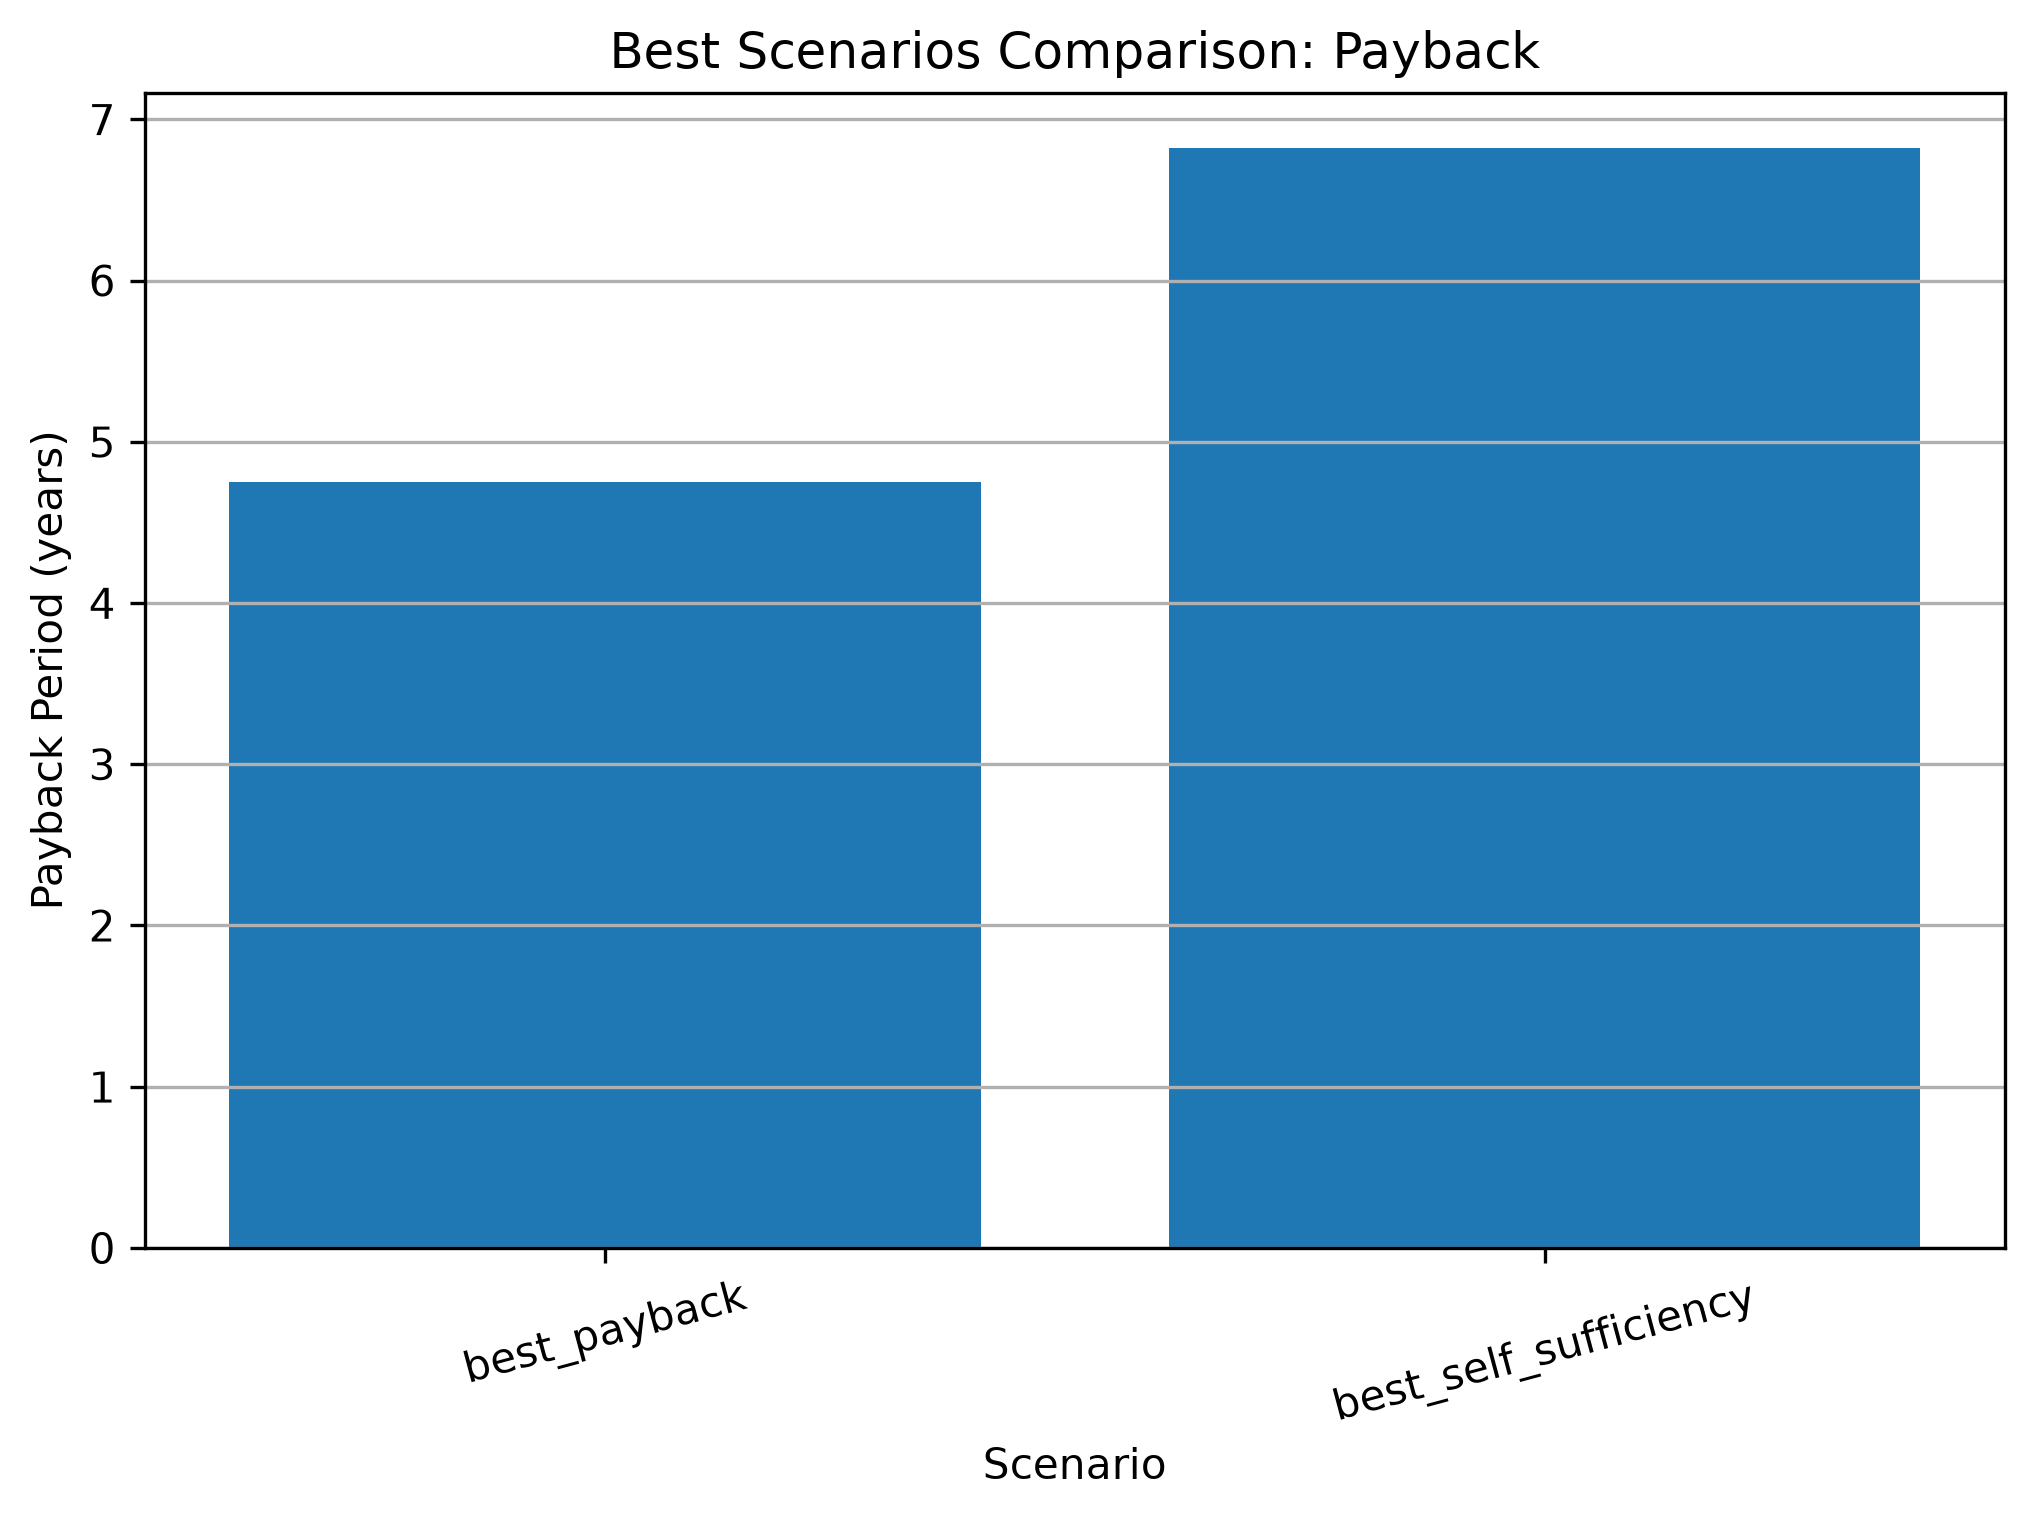
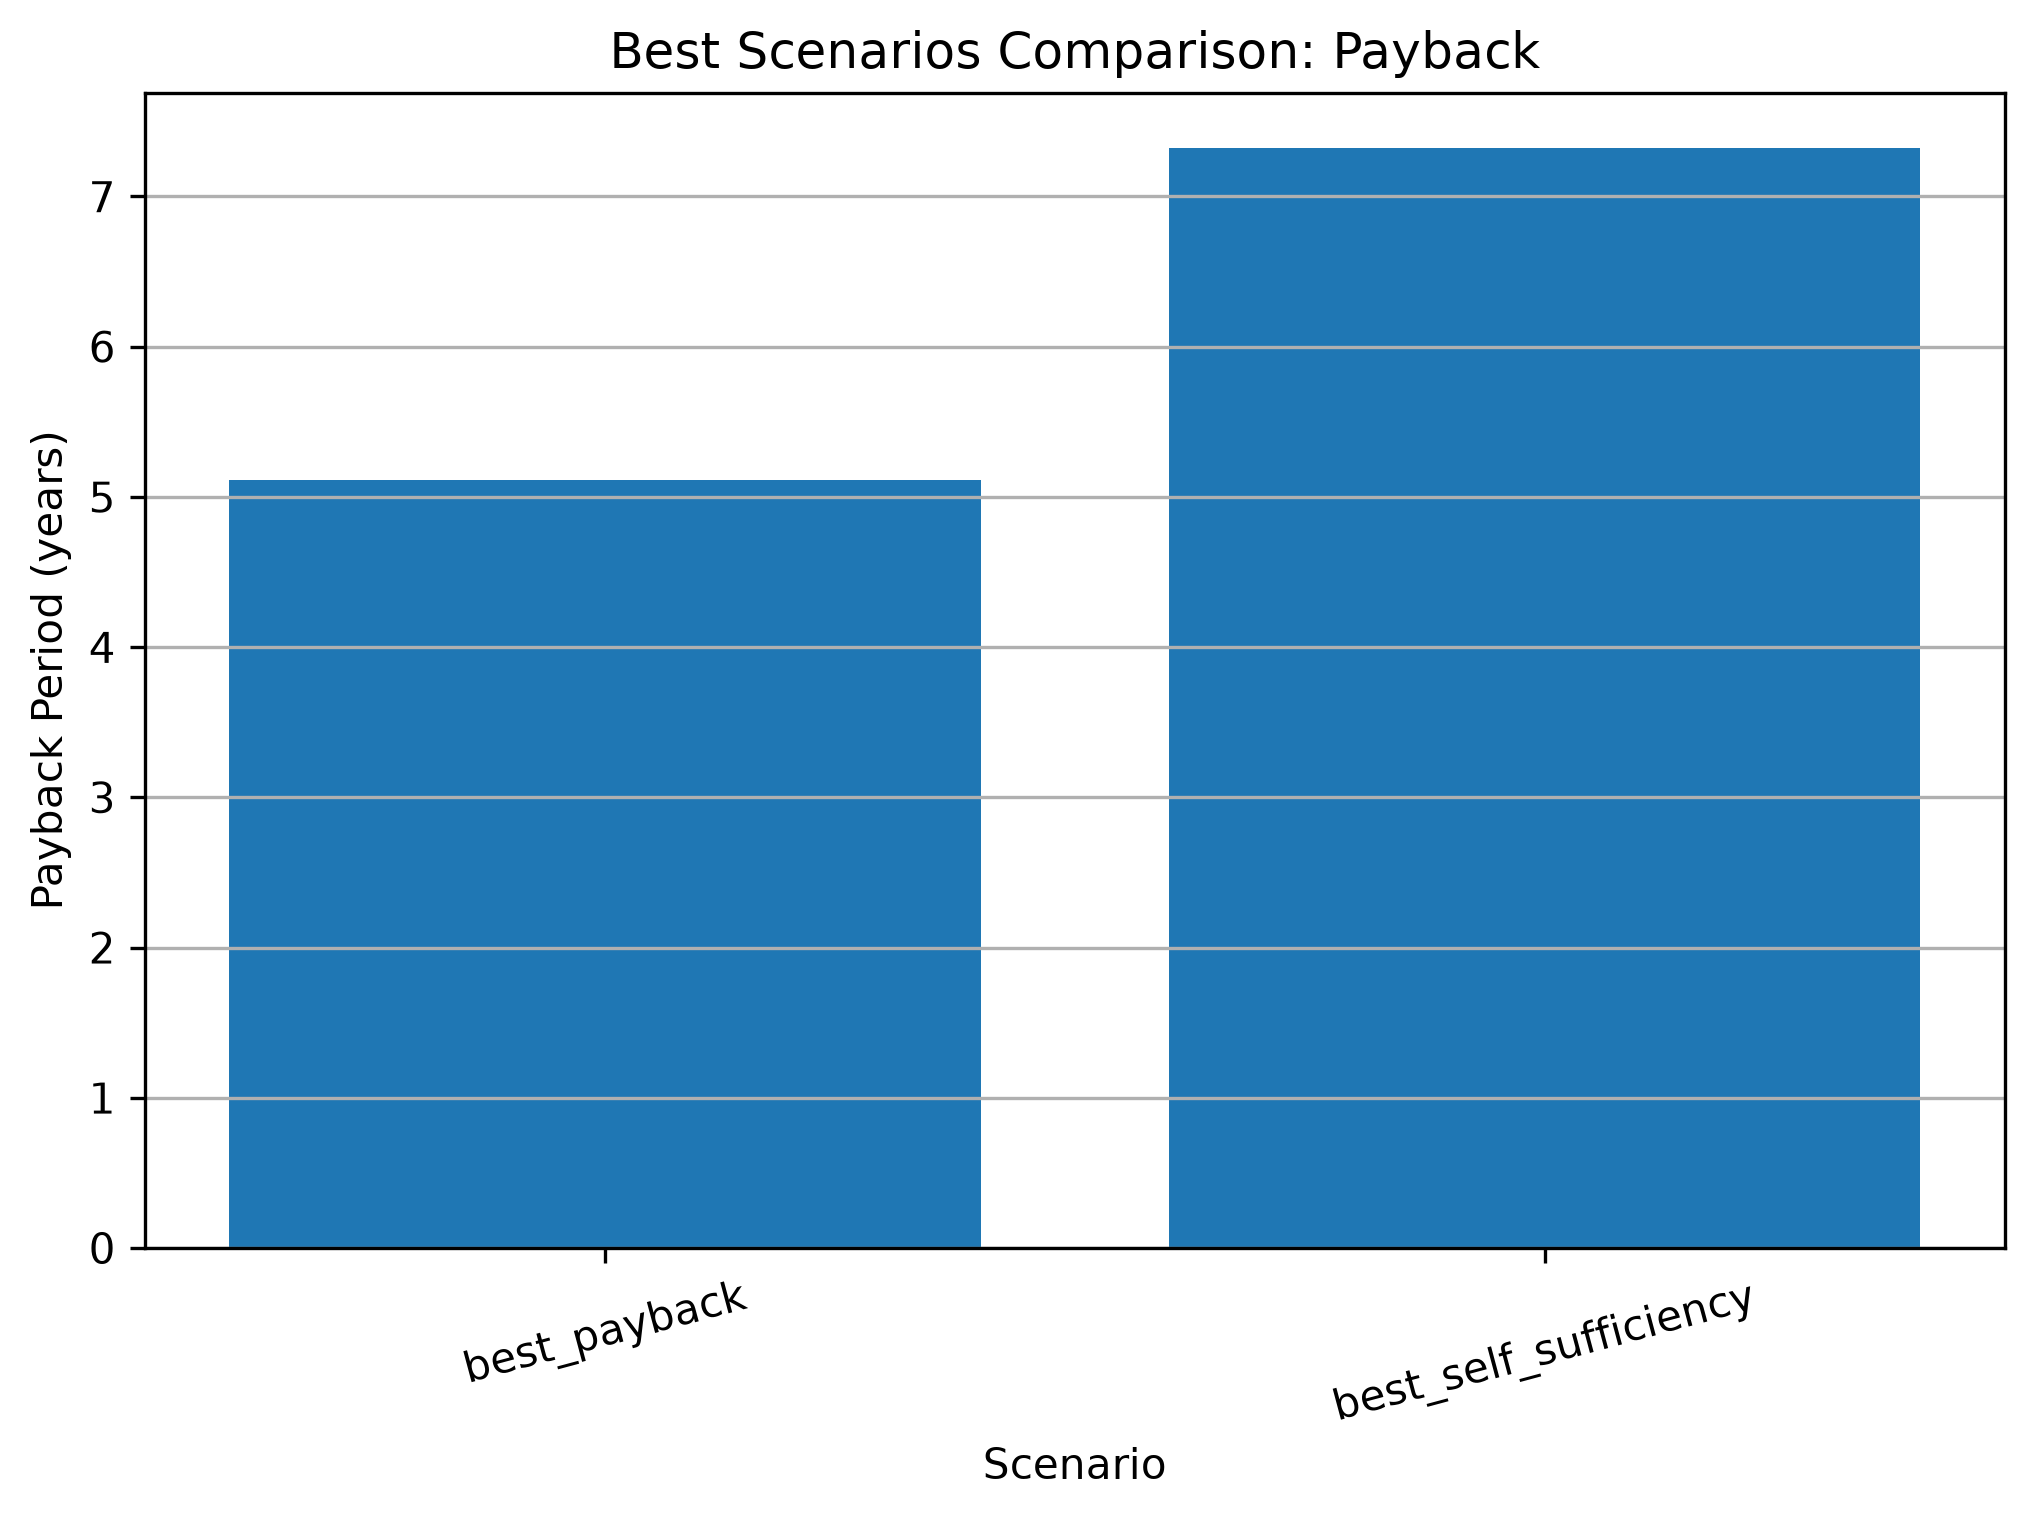
Use Spanish tariff in optimization

diff --git a/src/optimization.py b/src/optimization.py
@@ -10,79 +10,109 @@ from economics import (
 )
 
 from solar_data_loader import get_pvgis_generation_for_timestamps
+from tariff import calculate_net_electricity_cost_with_tariff
+from battery import simulate_battery
 
 def run_economic_grid_search(
-    consumption_kwh: list[float],
-    timestamps,
+    consumption_df: pd.DataFrame,
     solar_peak_powers_kw: list[float],
     battery_capacities_kwh: list[float],
     battery_efficiency: float,
-    max_charge_power_kw: float | None,
-    max_discharge_power_kw: float | None,
+    max_charge_power_kw: float,
+    max_discharge_power_kw: float,
     initial_battery_state_kwh: float,
-    electricity_price_eur_per_kwh: float,
-    surplus_compensation_eur_per_kwh: float,
     fixed_installation_cost: float,
     solar_cost_per_kw: float,
     battery_cost_per_kwh: float,
+    peak_price: float,
+    flat_price: float,
+    off_peak_price: float,
+    surplus_compensation_price: float,
+    contracted_power_kw: float,
+    power_price_eur_per_kw_year: float,
     simulation_days: int,
-    days_per_year: int = 365,
     pvgis_df: pd.DataFrame | None = None
 ) -> pd.DataFrame:
-
-    total_consumption = sum(consumption_kwh)
-
-    baseline_period_cost = calculate_grid_cost(
-        total_consumption,
-        electricity_price_eur_per_kwh
-    )
-
-    baseline_annual_cost = baseline_period_cost * (
-        days_per_year / simulation_days
-    )
-
     results = []
 
-    for peak_power_kw in solar_peak_powers_kw:
+    base_cost_df = consumption_df[["datetime", "consumption_kwh"]].copy()
+    base_cost_df["grid_import_kwh"] = base_cost_df["consumption_kwh"]
+    base_cost_df["solar_surplus_kwh"] = 0.0
+
+    base_net_cost = calculate_net_electricity_cost_with_tariff(
+        base_cost_df,
+        grid_import_column="grid_import_kwh",
+        surplus_column="solar_surplus_kwh",
+        peak_price=peak_price,
+        flat_price=flat_price,
+        off_peak_price=off_peak_price,
+        surplus_compensation_price=surplus_compensation_price,
+        contracted_power_kw=contracted_power_kw,
+        power_price_eur_per_kw_year=power_price_eur_per_kw_year,
+        simulation_days=simulation_days
+    )
+
+    for solar_peak_power_kw in solar_peak_powers_kw:
         if pvgis_df is None:
             solar_generation_kwh = generate_solar_profile_for_timestamps(
-                timestamps,
-                peak_power_kw
+                consumption_df["datetime"],
+                solar_peak_power_kw
             )
         else:
-            solar_generation_kwh = get_pvgis_generation_for_timestamps(pvgis_df, timestamps, peak_power_kw)
+            solar_generation_kwh = get_pvgis_generation_for_timestamps(
+                pvgis_df,
+                consumption_df["datetime"],
+                solar_peak_power_kw
+            )
 
         for battery_capacity_kwh in battery_capacities_kwh:
-            summary = compare_battery_scenario(
-                consumption_kwh,
-                solar_generation_kwh,
-                battery_capacity_kwh,
+            simulation_results = simulate_battery(
+                consumption_kwh=consumption_df["consumption_kwh"].tolist(),
+                solar_generation_kwh=solar_generation_kwh,
+                battery_capacity_kwh=battery_capacity_kwh,
                 battery_efficiency=battery_efficiency,
                 max_charge_power_kw=max_charge_power_kw,
                 max_discharge_power_kw=max_discharge_power_kw,
                 initial_battery_state_kwh=initial_battery_state_kwh
             )
 
-            scenario_period_cost = calculate_net_cost(
-                summary["grid_import_with_battery_kwh"],
-                summary["solar_surplus_with_battery_kwh"],
-                electricity_price_eur_per_kwh,
-                surplus_compensation_eur_per_kwh
+            simulation_df = pd.DataFrame(simulation_results)
+
+            simulation_df["datetime"] = consumption_df["datetime"].reset_index(
+                drop=True
             )
 
-            scenario_annual_cost = scenario_period_cost * (
-                days_per_year / simulation_days
+            simulation_df["consumption_kwh"] = consumption_df[
+                "consumption_kwh"
+            ].reset_index(drop=True)
+
+            simulation_df["solar_generation_kwh"] = solar_generation_kwh
+
+            scenario_net_cost = calculate_net_electricity_cost_with_tariff(
+                simulation_df,
+                grid_import_column="grid_import_kwh",
+                surplus_column="solar_surplus_kwh",
+                peak_price=peak_price,
+                flat_price=flat_price,
+                off_peak_price=off_peak_price,
+                surplus_compensation_price=surplus_compensation_price,
+                contracted_power_kw=contracted_power_kw,
+                power_price_eur_per_kw_year=power_price_eur_per_kw_year,
+                simulation_days=simulation_days
             )
 
-            period_savings = baseline_period_cost - scenario_period_cost
-            annual_savings = baseline_annual_cost - scenario_annual_cost
+            period_savings = base_net_cost - scenario_net_cost
+
+            annual_savings = (
+                period_savings * 365 / simulation_days
+            )
 
             investment_cost = calculate_total_installation_cost(
-                peak_power_kw,
-                battery_capacity_kwh,
-                solar_cost_per_kw,
-                battery_cost_per_kwh,
-                fixed_installation_cost=fixed_installation_cost
+                solar_peak_power_kw=solar_peak_power_kw,
+                battery_capacity_kwh=battery_capacity_kwh,
+                fixed_installation_cost=fixed_installation_cost,
+                solar_cost_per_kw=solar_cost_per_kw,
+                battery_cost_per_kwh=battery_cost_per_kwh
             )
 
             payback_years = calculate_simple_payback_years(
@@ -90,25 +120,38 @@ def run_economic_grid_search(
                 annual_savings
             )
 
+            total_consumption_kwh = simulation_df[
+                "consumption_kwh"
+            ].sum()
+
+            total_grid_import_kwh = simulation_df[
+                "grid_import_kwh"
+            ].sum()
+
+            total_solar_surplus_kwh = simulation_df[
+                "solar_surplus_kwh"
+            ].sum()
+
+            self_sufficiency = (
+                1 - total_grid_import_kwh / total_consumption_kwh
+            ) 
+
             results.append({
-                "solar_peak_power_kw": peak_power_kw,
+                "solar_peak_power_kw": solar_peak_power_kw,
                 "battery_capacity_kwh": battery_capacity_kwh,
                 "investment_cost_eur": investment_cost,
-                "period_cost_eur": scenario_period_cost,
-                "annual_cost_eur": scenario_annual_cost,
-                "period_savings_eur": period_savings,
+                "base_net_cost_eur": base_net_cost,
+                "scenario_net_cost_eur": scenario_net_cost,
                 "annual_savings_eur": annual_savings,
                 "payback_years": payback_years,
-                "grid_import_kwh": summary["grid_import_with_battery_kwh"],
-                "solar_surplus_kwh": summary["solar_surplus_with_battery_kwh"],
-                "potential_surplus_compensation_eur": (
-                    summary["solar_surplus_with_battery_kwh"]
-                    * surplus_compensation_eur_per_kwh
-                ),
-                "self_sufficiency": summary["self_sufficiency_with_battery"]
+                "self_sufficiency": self_sufficiency,
+                "grid_import_kwh": total_grid_import_kwh,
+                "solar_surplus_kwh": total_solar_surplus_kwh
             })
 
-    return pd.DataFrame(results)
+    results_df = pd.DataFrame(results)
+
+    return results_df
 
 def get_best_scenario_by_payback(df: pd.DataFrame) -> pd.Series:
     valid_payback_df = df.dropna(subset=["payback_years"])

diff --git a/src/main.py b/src/main.py
@@ -83,31 +83,24 @@ def main() -> None:
     max_discharge_power_kw = config.MAX_DISCHARGE_POWER_KW
     initial_battery_state_kwh = config.INITIAL_BATTERY_STATE_KWH
 
-    electricity_price_eur_per_kwh = config.ELECTRICITY_PRICE_EUR_PER_KWH
-    surplus_compensation_eur_per_kwh = config.SURPLUS_COMPENSATION_EUR_PER_KWH
-
-    fixed_installation_cost = config.FIXED_INSTALLATION_COST_EUR
-    solar_cost_per_kw = config.SOLAR_COST_EUR_PER_KW
-    battery_cost_per_kwh = config.BATTERY_COST_EUR_PER_KWH
-
-    days_per_year = config.DAYS_PER_YEAR
-
     results_df = run_economic_grid_search(
-        consumption_kwh,
-        timestamps,
-        solar_peak_powers_kw,
-        battery_capacities_kwh,
-        battery_efficiency,
-        max_charge_power_kw,
-        max_discharge_power_kw,
-        initial_battery_state_kwh,
-        electricity_price_eur_per_kwh,
-        surplus_compensation_eur_per_kwh,
-        fixed_installation_cost,
-        solar_cost_per_kw,
-        battery_cost_per_kwh,
-        simulation_days,
-        days_per_year=days_per_year,
+        consumption_df=df_consumption,
+        solar_peak_powers_kw=config.SOLAR_PEAK_POWERS_KW,
+        battery_capacities_kwh=config.BATTERY_CAPACITIES_KWH,
+        battery_efficiency=config.BATTERY_EFFICIENCY,
+        max_charge_power_kw=config.MAX_CHARGE_POWER_KW,
+        max_discharge_power_kw=config.MAX_DISCHARGE_POWER_KW,
+        initial_battery_state_kwh=config.INITIAL_BATTERY_STATE_KWH,
+        fixed_installation_cost=config.FIXED_INSTALLATION_COST_EUR,
+        solar_cost_per_kw=config.SOLAR_COST_EUR_PER_KW,
+        battery_cost_per_kwh=config.BATTERY_COST_EUR_PER_KWH,
+        peak_price=config.PEAK_PRICE_EUR_PER_KWH,
+        flat_price=config.FLAT_PRICE_EUR_PER_KWH,
+        off_peak_price=config.OFF_PEAK_PRICE_EUR_PER_KWH,
+        surplus_compensation_price=config.SURPLUS_COMPENSATION_EUR_PER_KWH,
+        contracted_power_kw=config.CONTRACTED_POWER_KW,
+        power_price_eur_per_kw_year=config.POWER_PRICE_EUR_PER_KW_YEAR,
+        simulation_days=simulation_days,
         pvgis_df=pvgis_df
     )
 